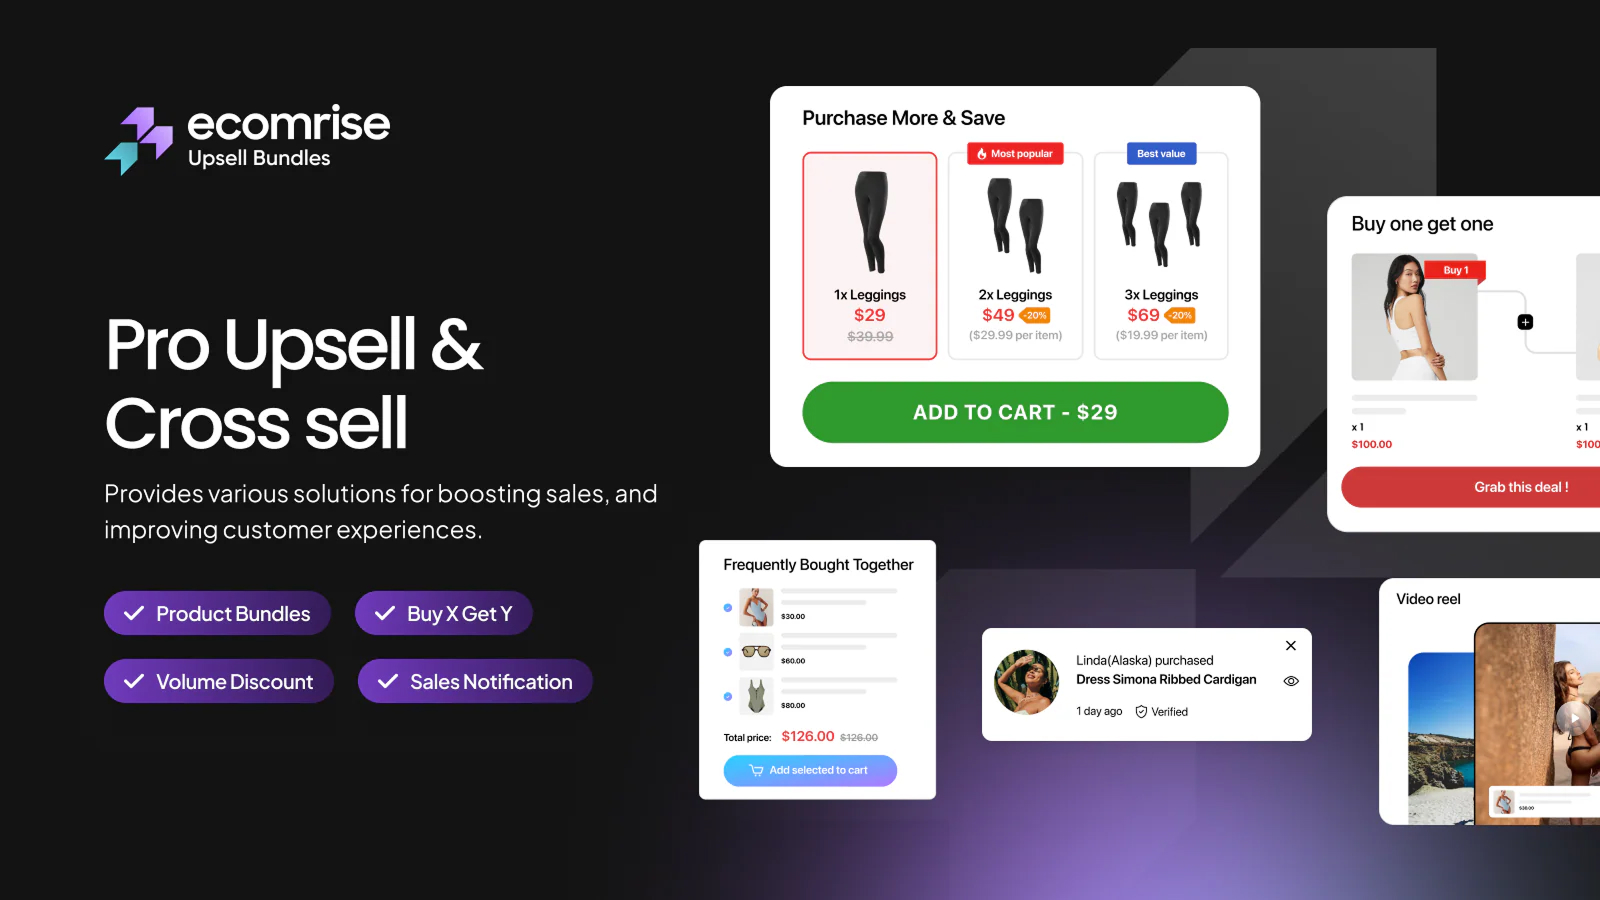
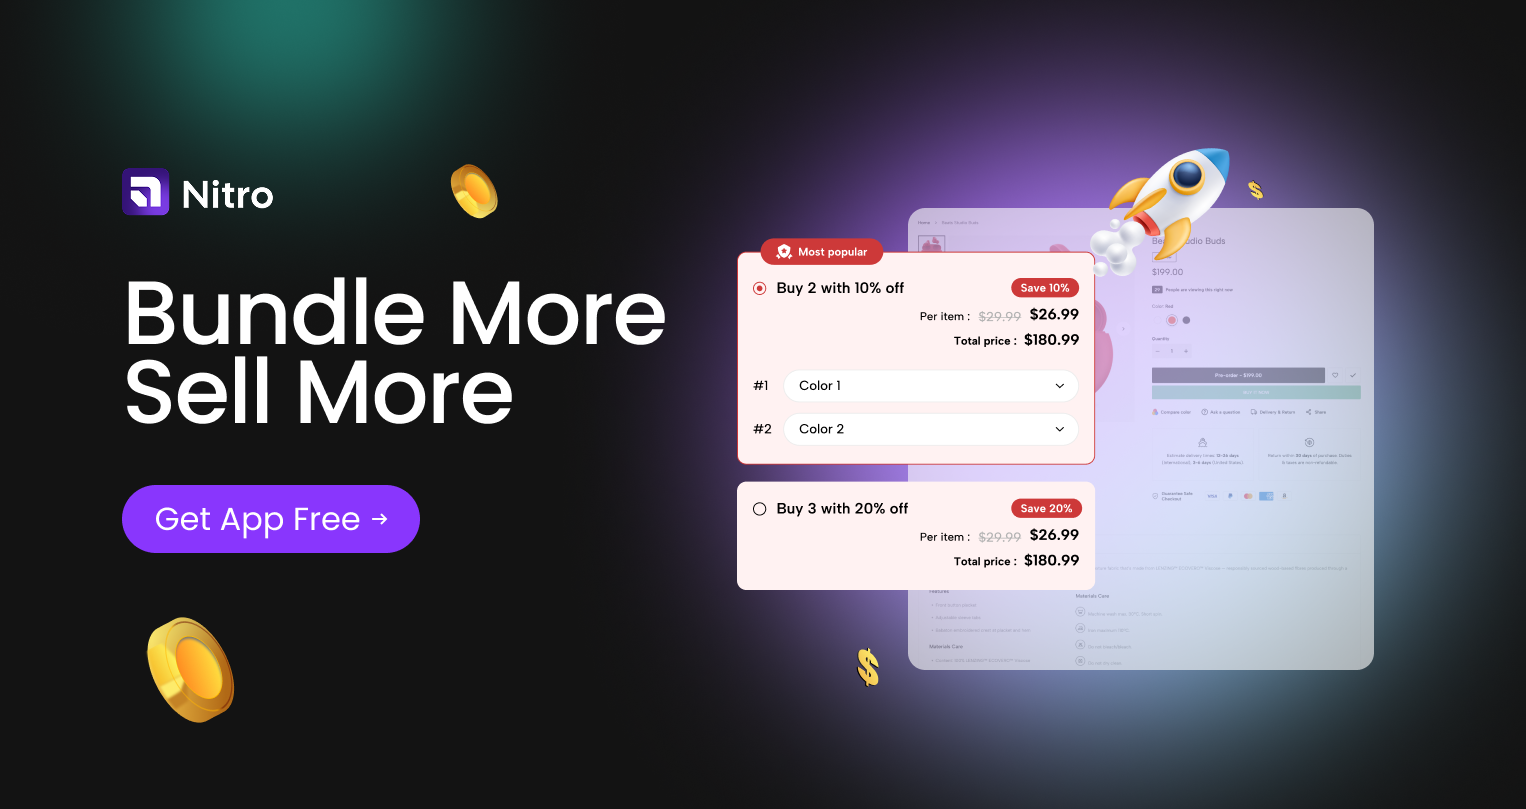
Update

diff --git a/index.html b/index.html
@@ -1588,11 +1588,11 @@
                   <h3 m-title>Import demo and more ...</h3>
                   <img m-img loading="lazy" src="./assets/images/grid1/item4.png" alt="">
                   <div m-body>
-                    <p class="des">Forget about the traditional demo import process. Kalles supports import demo in a click via EcomRise app (FREE). </p>
+                    <p class="des">Forget about the traditional demo import process. Kalles supports import demo in a click via Nitro app (FREE). </p>
                     <p class="des">Transform your store look into Kalles demo in seconds. And switching to new demo is easier than ever. </p>
                     <div class="m_btns">
                       <a href="https://support.the4.co/articles/import-demo" target="_blank" class="t_u_it light_skew_hover">How to use it </a>
-                      <a href="https://shopify.pxf.io/rQq9E5" target="_blank" class="m_b_kl">Install EcomRise Free</a>
+                      <a href="https://shopify.pxf.io/rQq9E5" target="_blank" class="m_b_kl">Install Nitro Free</a>
                     </div>
                   </div>
                 </div>
@@ -3568,7 +3568,7 @@
                   <div class="d-none" m-body>
                     <p class="des">Allow adding products to compare or wishlist and access them at anytime later on.
                       This make customer shopping experience much more interesting & fun. </p>
-                    <p class="des">Install EcomRise to make full use of advanced Compare and Wishlist functions. </p>
+                    <p class="des">Install Nitro to make full use of advanced Compare and Wishlist functions. </p>
                     <div class="m_btns">
                       <a href="https://shopify.pxf.io/rQq9E5" target="_blank" class="i_ecomrise">Install EComRise </a>
                       <a href="https://1.envato.market/nL6xBa" target="_blank" class="m_b_kl">Buy Kalles now</a>
@@ -3869,7 +3869,7 @@
         </div>
       </div>
     </section>
-    <section class="ecomrise" id="EcomRise">
+    <section class="ecomrise" id="Nitro">
       <div class="section-inner">
         <div class="bg_blur"></div>
         <div class="container">
@@ -3878,7 +3878,7 @@
               <div class="item-inner left">
                 <h3 class="title fz-48">
                   <span class="text-linear wow animated fadeInLeft" data-wow-delay="0s"
-                    data-wow-duration="1s">EcomRise</span><br>
+                    data-wow-duration="1s">Nitro</span><br>
                   <span class="wow animated fadeInLeft" data-wow-delay="0.2s" data-wow-duration="1s"> One Click Import
                     Demos</span><br>
                   <span class="wow animated fadeInLeft" data-wow-delay="0.4s" data-wow-duration="1s"> & Update
@@ -3967,7 +3967,7 @@
                         </linearGradient>
                       </defs>
                     </svg>
-                    <span>Unlock other boost sale add-ons in EcomRise: Product<br> Bundles, BOGOs, Volume Discount, Sales Pop, etc.</span>
+                    <span>Unlock other boost sale add-ons in Nitro: Product<br> Bundles, BOGOs, Volume Discount, Sales Pop, etc.</span>
                   </li>
                 </ul>
                 <div class="guard">
@@ -3981,7 +3981,7 @@
                       </linearGradient>
                       </defs>
                     </svg>
-                    <p class="text"><strong>Special offer:</strong> Buy Kalles to enjoy 6 month free of EcomRise<br> Premium. Install EcomRise & chat with support in-app to claim<br> this deal.</p>
+                    <p class="text"><strong>Special offer:</strong> Buy Kalles to enjoy 6 month free of Nitro<br> Premium. Install Nitro & chat with support in-app to claim<br> this deal.</p>
                   </div>
                 </div>
                 <div class="btns_ins_e">
@@ -4005,7 +4005,7 @@
                         </defs>
                       </svg>
                       <span class="cta_text">
-                        Install EcomRise Now
+                        Install Nitro Now
                       </span>
                     </a>
                   </effect-custom>
@@ -4816,21 +4816,21 @@
                       <img loading="lazy" src="./assets/images/partner/2.webp" alt="">
                     </div>
                   </div>
-                  <h4 class="title">Get EcomRise FREE 6 Months</h4>
+                  <h4 class="title">Get Nitro: Upsell & Cross-sell FREE for 6 Months</h4>
                   <div class="des re_format">
-                    <p>Install EcomRise to enjoy quick theme updates & other boost sales features for FREE 6 months </p>
+                    <p>Install Nitro: Upsell & Cross-sell to create product bundles, personalized offers, and more sales-boosting campaigns ✨FREE for 6 months.</p>
                     <ul>
                       <li>
-                        <span class="highlight">How to claim:</span> Buy Kalles then install EcomRise and chat with in-app support mention your offer.
+                        <span class="highlight">How to claim:</span> Purchase Theme, install Nitro: Upsell & Cross-sell, then contact our in-app team to activate your offer.
                       </li>
-                      <li>Who to apply: Only new users</li>
+                      <li>Who to apply: New Nitro: Upsell & Cross-sell users only.</li>
                     </ul>
                   </div>
                   <div class="gr_btns">
                     <effect-custom type="button" config='{"num":3}' class="call_to_action discount">
                       <div effect-parent="">
                       </div>
-                      <a href="https://apps.shopify.com/ecomrise?utm_campaign=Kalles-landing" target="_blank" class="cta light_skew_hover">
+                      <a href="https://apps.shopify.com/nitro-ai-store-builder&utm_source=themeforest&utm_medium=theme-landing&utm_campaign=revert-to-nitro-upsell-crosssell" target="_blank" class="cta light_skew_hover">
                         <span class="cta_text">
                           Claim Your Deal
                         </span>
@@ -5032,7 +5032,7 @@
                                 <div class="icon">
                                   <img loading="lazy" src="./assets/images/partner/icon/3.png" alt="">
                                 </div>
-                                <div class="title">EcomRise: Upsell & Bundles - FREE 6 months</div>
+                                <div class="title">Nitro: Upsell & Cross-sell - FREE 6 months</div>
                               </div>
                             </div>
                             <div class="it" partner-tab-item aria-controls="#pn-id-4">

diff --git a/assets/js/global.js b/assets/js/global.js
@@ -905,9 +905,9 @@ const demoListing =[
     "name": "Home Furniture 4",
     "handle": "home-furniture-4",
     "image": "./assets/images/demos/img/home-furniture-4.jpeg",
-    "url": "https://demo-kalles-4-4.myshopify.com/?preview_theme_id=132177625253",
+    "url": "https://kalles-5-3.myshopify.com/?preview_theme_id=181220540689&pb=0",
     "type": "furniture",
-    "version": 4.0,
+    "version": 5.4,
   },
   {
     "name": "Home Fashion Simple",
@@ -937,9 +937,9 @@ const demoListing =[
     "name": "Home Electronic 4",
     "handle": "home-electronic-4",
     "image": "./assets/images/demos/img/home-electronic.jpeg",
-    "url": "https://demo-kalles-4-4.myshopify.com/?preview_theme_id=132174381221",
+    "url": "https://demo-kalles-5-4.myshopify.com/?preview_theme_id=162718580975&pb=0",
     "type": "electronics",
-    "version": 4.0,
+    "version": 5.4,
   },
   {
     "name": "Home Video Banner",
@@ -1048,6 +1048,14 @@ const demoListing =[
   {
     "name": "Skincare",
     "handle": "skincare",
+    "image": "./assets/images/demos/img/home-skincare-2.jpg",
+    "url": "https://kalles-5-3.myshopify.com/?preview_theme_id=181184561425&pb=0",
+    "type": "more",
+    "version": 5.4,
+  },
+  {
+    "name": "Skincare 2",
+    "handle": "skincare-2",
     "image": "./assets/images/demos/img/home-skincare.jpg",
     "url": "https://kalles-5.myshopify.com/?preview_theme_id=179532726572&pb=0",
     "type": "more",
@@ -1057,9 +1065,9 @@ const demoListing =[
     "name": "Furniture 5",
     "handle": "furniture-5",
     "image": "./assets/images/demos/img/home-furniture-5.jpeg",
-    "url": "https://demo-kalles-4-4.myshopify.com/?preview_theme_id=137841574053",
+    "url": "https://kalles-5-3.myshopify.com/?preview_theme_id=181244199185&pb=0",
     "type": "furniture",
-    "version": 4.0,
+    "version": 5.4,
   },
   {
     "name": "Home Organic",
@@ -1129,9 +1137,9 @@ const demoListing =[
     "name": "Home Decor",
     "handle": "home-decor",
     "image": "./assets/images/demos/img/home-decor.jpeg",
-    "url": "https://demo-kalles-4-3.myshopify.com/?preview_theme_id=132703748334",
+    "url": "https://kalles-5-2.myshopify.com/?preview_theme_id=156341895424&pb=0",
     "type": "furniture",
-    "version": 4.0,
+    "version": 5.4,
   },
   {
     "name": "Home Furniture",
@@ -1153,9 +1161,9 @@ const demoListing =[
     "name": "Home Electric",
     "handle": "home-electric",
     "image": "./assets/images/demos/img/home-electric.jpeg",
-    "url": "https://demo-kalles-4-3.myshopify.com/?preview_theme_id=132719673582",
+    "url": "https://kalles-5-2.myshopify.com/?preview_theme_id=156058583296&pb=0",
     "type": "electronics",
-    "version": 4.0,
+    "version": 5.4,
   },
   {
     "name": "Home Electric Vertical",
@@ -1177,9 +1185,9 @@ const demoListing =[
     "name": "One Product Store",
     "handle": "one-product-store",
     "image": "./assets/images/demos/img/home-single-product.jpeg",
-    "url": "https://demo-kalles-4-3.myshopify.com/?preview_theme_id=132722163950",
+    "url": "https://kalles-5-3.myshopify.com/?preview_theme_id=181349908753&pb=0",
     "type": "more",
-    "version": 4.0,
+    "version": 5.4,
   },
   {
     "name": "Home Hi Tech",
@@ -1193,9 +1201,9 @@ const demoListing =[
     "name": "Home Phonecase 4",
     "handle": "home-phonecase-4",
     "image": "./assets/images/demos/img/home-phonecase.jpeg",
-    "url": "https://demo-kalles-4-4.myshopify.com/?preview_theme_id=132229365925",
+    "url": "https://kalles-5-3.myshopify.com/?preview_theme_id=181167161617&pb=0",
     "type": "electronics",
-    "version": 4.0,
+    "version": 5.4,
   },
   {
     "name": "Home Handmade",
@@ -1209,9 +1217,9 @@ const demoListing =[
     "name": "Home Bag",
     "handle": "home-bag",
     "image": "./assets/images/demos/img/home-bag.jpeg",
-    "url": "https://demo-kalles-4-1.myshopify.com/?preview_theme_id=128697729230",
+    "url": "https://kalles-5-3.myshopify.com/?preview_theme_id=180944699665&pb=0",
     "type": "more",
-    "version": 4.0,
+    "version": 5.4,
   },
   {
     "name": "Home Shoes",
@@ -1241,9 +1249,9 @@ const demoListing =[
     "name": "Home Jewelry",
     "handle": "home-jewelry",
     "image": "./assets/images/demos/img/home-jewelry.jpeg",
-    "url": "https://demo-kalles-4-2.myshopify.com/?preview_theme_id=129857683613",
+    "url": "https://kalles-5.myshopify.com/?preview_theme_id=179723305260&pb=0",
     "type": "jewelry",
-    "version": 4.0,
+    "version": 5.4,
   },
   {
     "name": "Home Bicycle",
@@ -1257,9 +1265,9 @@ const demoListing =[
     "name": "Home Baby",
     "handle": "home-baby",
     "image": "./assets/images/demos/img/home-baby.jpeg",
-    "url": "https://demo-kalles-4-2.myshopify.com/?preview_theme_id=129744044189",
+    "url": "https://kalles-5-3.myshopify.com/?preview_theme_id=181262385425&pb=0",
     "type": "kids",
-    "version": 4.0,
+    "version": 5.4,
   },
   {
     "name": "Home Kid & Accessories",
@@ -1289,9 +1297,9 @@ const demoListing =[
     "name": "Home Glasses",
     "handle": "home-glasses",
     "image": "./assets/images/demos/img/home-glasses.jpeg",
-    "url": "https://demo-kalles-4-1.myshopify.com/?preview_theme_id=128703398094",
+    "url": "https://kalles-5-3.myshopify.com/?preview_theme_id=181355217169&pb=0",
     "type": "fashion",
-    "version": 4.0,
+    "version": 5.4,
   },
   {
     "name": "Home Sport Accessories",
@@ -1305,9 +1313,9 @@ const demoListing =[
     "name": "Home Sport",
     "handle": "home-sport",
     "image": "./assets/images/demos/img/home-sport-fitness.jpeg",
-    "url": "https://demo-kalles-4-3.myshopify.com/?preview_theme_id=132747329774",
+    "url": "https://kalles-5-3.myshopify.com/?preview_theme_id=181010825489&pb=0",
     "type": "sport",
-    "version": 4.0,
+    "version": 5.4,
   },
   {
     "name": "Home Spa",
@@ -1337,9 +1345,9 @@ const demoListing =[
     "name": "Home Plant 2",
     "handle": "home-plant-2",
     "image": "./assets/images/demos/img/home-plant-2.jpeg",
-    "url": "https://demo-kalles-4-2.myshopify.com/?preview_theme_id=129844379805",
+    "url": "https://kalles-5-3.myshopify.com/?preview_theme_id=180854358289&pb=0",
     "type": "more",
-    "version": 4.0,
+    "version": 5.4,
   },
   {
     "name": "Home Cosmetic",
@@ -1371,7 +1379,7 @@ class demoGrid extends HTMLElement{
   constructor(){
     super();
     this.buyUrl = "https://1.envato.market/nL6xBa"; 
-    this.cacheVersion = "version-04-26";
+    this.cacheVersion = "version-08-22";
   }
   connectedCallback(){
     let contentCache = localStorage.getItem(`demo-grid-new-demo-${this.cacheVersion}`);
